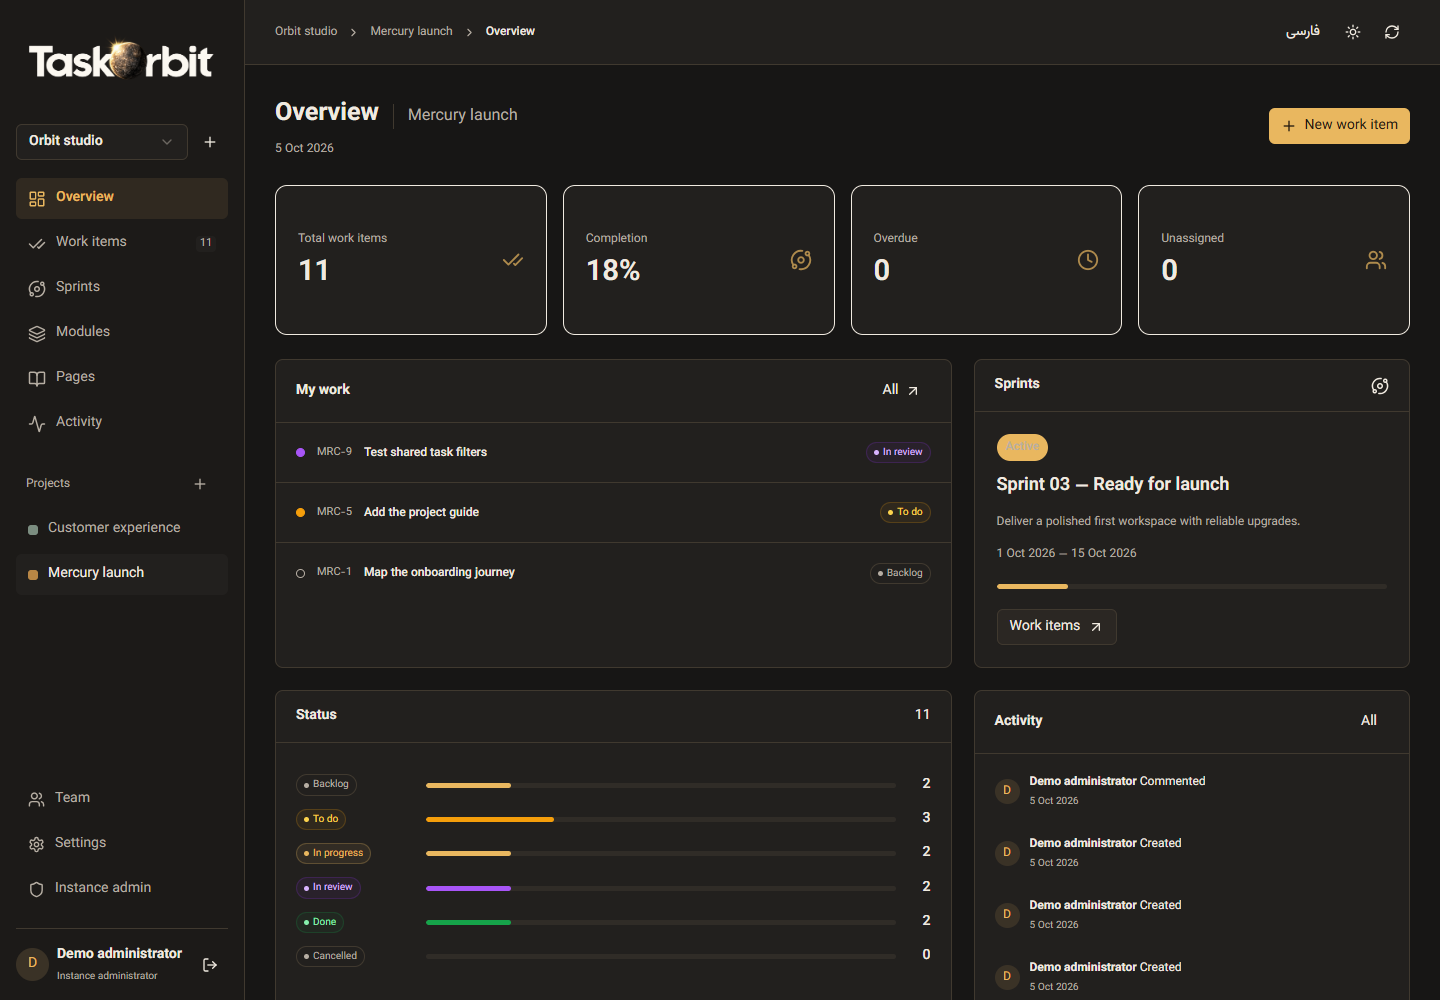
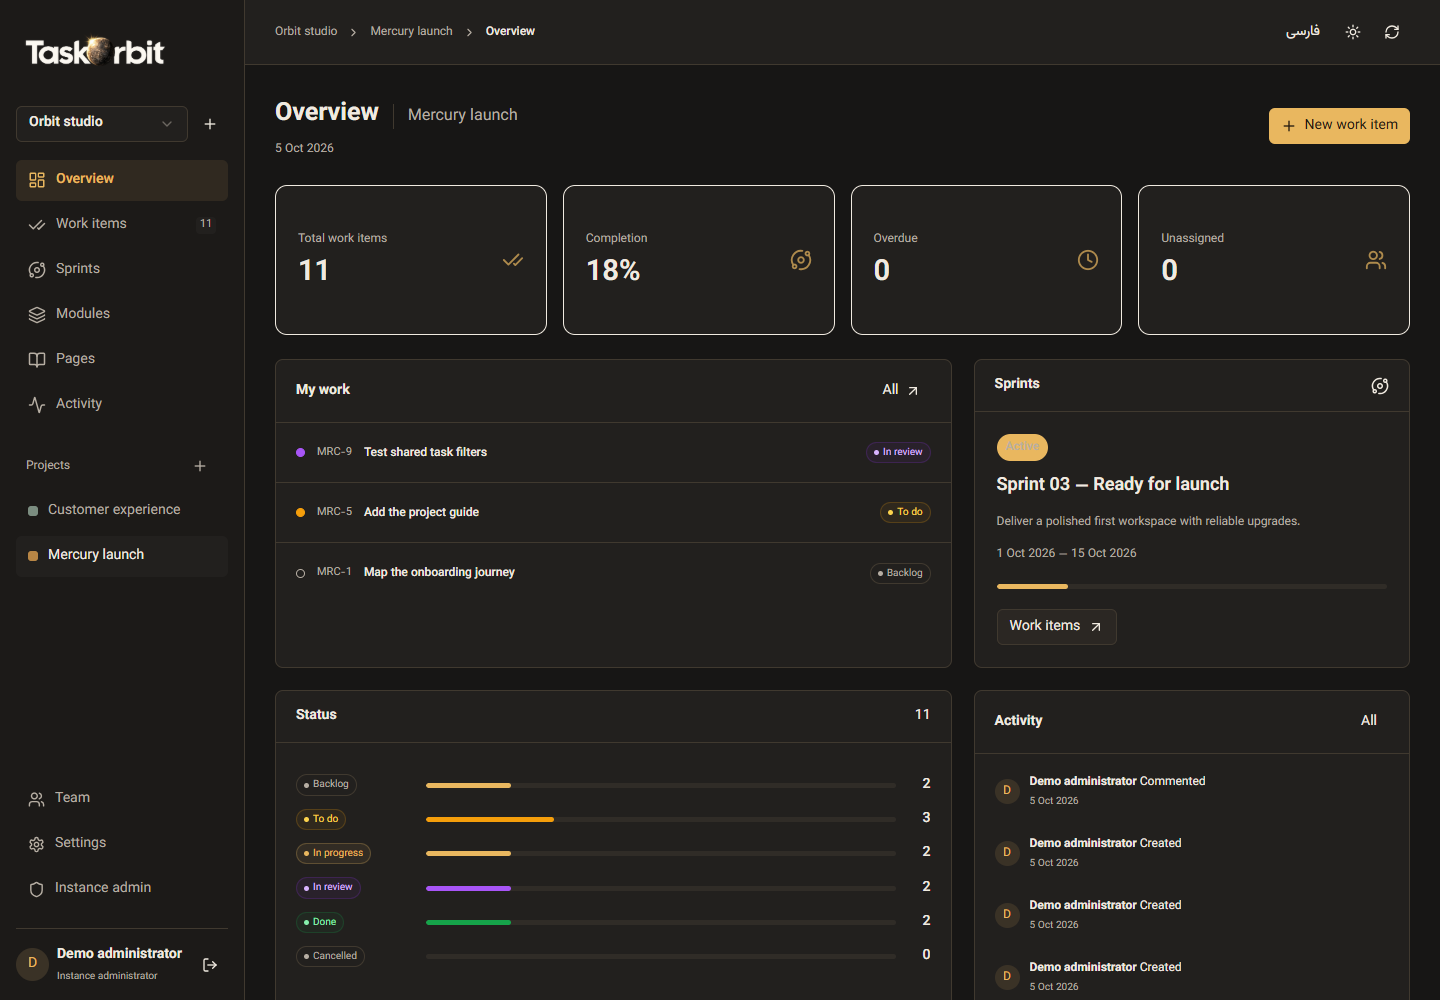
Make sidebar branding compact and prepare 0.1.6

Changed region(s): [[0.0, 0.031, 0.1562, 0.434], [0.0, 0.465, 0.125, 0.589]]

diff --git a/src/App.tsx b/src/App.tsx
@@ -1985,7 +1985,7 @@ export default function App() {
           )}
         </div>
         <footer className="app-footer">
-          <span>TaskOrbit 0.1.5</span>
+          <span>TaskOrbit 0.1.6</span>
           <a
             href="https://github.com/sajadjanat/taskorbit"
             target="_blank"

diff --git a/src/index.css b/src/index.css
@@ -123,6 +123,10 @@ input[type="color"] {
   border-radius: 6px;
   object-fit: contain;
 }
+.sidebar .brand img {
+  width: 160px;
+  max-width: 100%;
+}
 .brand .brand-dark {
   display: none;
 }

diff --git a/README.ar.md b/README.ar.md
@@ -11,7 +11,7 @@
   <p>إدارة مشاريع خفيفة وذاتية الاستضافة باستخدام React وshadcn/ui وTauri.</p>
   <p>
     <a href="https://github.com/sajadjanat/taskorbit/actions/workflows/verify.yml"><img src="https://github.com/sajadjanat/taskorbit/actions/workflows/verify.yml/badge.svg" alt="Web and server checks" /></a>
-    <a href="https://github.com/sajadjanat/taskorbit/releases"><img src="https://img.shields.io/badge/version-0.1.5-b88645" alt="Version 0.1.5" /></a>
+    <a href="https://github.com/sajadjanat/taskorbit/releases"><img src="https://img.shields.io/badge/version-0.1.6-b88645" alt="Version 0.1.6" /></a>
     <img src="https://img.shields.io/badge/Tauri-2-24c8db?logo=tauri&amp;logoColor=white" alt="Tauri 2" />
     <img src="https://img.shields.io/badge/UI-shadcn%2Fui-18181b?logo=shadcnui&amp;logoColor=white" alt="shadcn/ui" />
     <a href="LICENSE"><img src="https://img.shields.io/badge/license-MIT-b88645" alt="MIT license" /></a>
@@ -66,13 +66,13 @@
 
 ## التنزيل
 
-[**TaskOrbit 0.1.5 → GitHub Releases**](https://github.com/sajadjanat/taskorbit/releases/tag/v0.1.5)
+[**TaskOrbit 0.1.6 → GitHub Releases**](https://github.com/sajadjanat/taskorbit/releases/tag/v0.1.6)
 
 | المنصة | الحزمة أو الوصول | طريقة التحديث |
 | --- | --- | --- |
-| Windows x64 | TaskOrbit_0.1.5_x64-setup.exe | تحديث موقّع داخل التطبيق |
-| macOS Apple Silicon | TaskOrbit_0.1.5_aarch64.dmg | تحديث موقّع داخل التطبيق |
-| macOS Intel | TaskOrbit_0.1.5_x64.dmg | تحديث موقّع داخل التطبيق |
+| Windows x64 | TaskOrbit_0.1.6_x64-setup.exe | تحديث موقّع داخل التطبيق |
+| macOS Apple Silicon | TaskOrbit_0.1.6_aarch64.dmg | تحديث موقّع داخل التطبيق |
+| macOS Intel | TaskOrbit_0.1.6_x64.dmg | تحديث موقّع داخل التطبيق |
 | Linux x64 | DEB / AppImage | تحديث موقّع داخل التطبيق |
 | Android arm64 | taskorbit-android-arm64.apk | APK موقّع؛ التثبيت بموافقة المستخدم |
 | Web / iPhone / iPad | المتصفح / الإضافة إلى الشاشة الرئيسية | إعادة التحميل بعد تحديث الخادم |
@@ -104,7 +104,7 @@ docker compose up -d --build
 docker compose -f compose.image.yaml up -d
 ```
 
-الصورة `ghcr.io/sajadjanat/taskorbit:v0.1.5` متاحة لـ Linux amd64 وarm64. تحفظ الحسابات والمرفقات وSQLite في `taskorbit-data`. الأمر `docker compose down -v` يحذف وحدة التخزين والبيانات.
+الصورة `ghcr.io/sajadjanat/taskorbit:v0.1.6` متاحة لـ Linux amd64 وarm64. تحفظ الحسابات والمرفقات وSQLite في `taskorbit-data`. الأمر `docker compose down -v` يحذف وحدة التخزين والبيانات.
 
 ## خادم عام مع HTTPS: حاويتان
 
@@ -124,7 +124,7 @@ docker compose -f compose.yaml -f compose.https.yaml up -d --build
 
 ## التحديثات
 
-يمكن للمشرف العام التحقق من الإصدارات في لوحة الإدارة. لتفعيل تحديث الخادم بنقرة واحدة مع نسخة احتياطية واستعادة تلقائية عند الفشل، اسحب الصور ثم شغّل `docker compose -f compose.image.yaml -f compose.updates.yaml up -d`. تضاف حاوية تحديث: حاويتان إجمالاً أو ثلاث مع Caddy. يتضمن سطح المكتب منذ 0.1.3 تحديثات موقعة عبر شاشة الاتصال وقائمة **Updates / Server connection**. يتيح Android تنزيل APK الموقّع ويتطلب موافقة المستخدم للتثبيت. يقدم الويب وPWA على iPhone إعادة التحميل بعد تحديث الخادم. الإصدارات الأقدم تحتاج تثبيت 0.1.5 يدويًا مرة واحدة. راجع [دليل التحديث](docs/UPDATES.md).
+يمكن للمشرف العام التحقق من الإصدارات في لوحة الإدارة. لتفعيل تحديث الخادم بنقرة واحدة مع نسخة احتياطية واستعادة تلقائية عند الفشل، اسحب الصور ثم شغّل `docker compose -f compose.image.yaml -f compose.updates.yaml up -d`. تضاف حاوية تحديث: حاويتان إجمالاً أو ثلاث مع Caddy. يتضمن سطح المكتب منذ 0.1.3 تحديثات موقعة عبر شاشة الاتصال وقائمة **Updates / Server connection**. يتيح Android تنزيل APK الموقّع ويتطلب موافقة المستخدم للتثبيت. يقدم الويب وPWA على iPhone إعادة التحميل بعد تحديث الخادم. الإصدارات الأقدم تحتاج تثبيت 0.1.6 يدويًا مرة واحدة. راجع [دليل التحديث](docs/UPDATES.md).
 
 
 ## التثبيت على الأجهزة
@@ -172,7 +172,7 @@ npm run test:e2e
 
 ## الإصدار والنطاق
 
-يشغّل الوسم `v0.1.5` الاختبارات وبناء الحزم الأصلية والصورة متعددة المعماريات ومسودة إصدار. ينشر الإصدار بعد نجاح جميع المنصات. راجع [ملاحظات الإصدار](docs/RELEASE-NOTES.md) و[نتائج التحقق](docs/VERIFICATION.md) و[خارطة الطريق](docs/ROADMAP.md).
+يشغّل الوسم `v0.1.6` الاختبارات وبناء الحزم الأصلية والصورة متعددة المعماريات ومسودة إصدار. ينشر الإصدار بعد نجاح جميع المنصات. راجع [ملاحظات الإصدار](docs/RELEASE-NOTES.md) و[نتائج التحقق](docs/VERIFICATION.md) و[خارطة الطريق](docs/ROADMAP.md).
 
 التقنيات: React وTypeScript وVite وTailwind ومكونات shadcn/ui الفعلية وExpress وSQLite المدمجة في Node وTauri 2. الخط Vazirmatn بترخيص OFL. تعتمد الهوية على عطارد وإضاءة شمسية دافئة وألوان حجرية/فحمية وذهبية؛ [تفاصيل الهوية](assets/brand/WORDMARK.md).
 

diff --git a/README.zh-CN.md b/README.zh-CN.md
@@ -11,7 +11,7 @@
   <p>采用 React、shadcn/ui 和 Tauri 的轻量自托管项目管理应用。</p>
   <p>
     <a href="https://github.com/sajadjanat/taskorbit/actions/workflows/verify.yml"><img src="https://github.com/sajadjanat/taskorbit/actions/workflows/verify.yml/badge.svg" alt="Web and server checks" /></a>
-    <a href="https://github.com/sajadjanat/taskorbit/releases"><img src="https://img.shields.io/badge/version-0.1.5-b88645" alt="Version 0.1.5" /></a>
+    <a href="https://github.com/sajadjanat/taskorbit/releases"><img src="https://img.shields.io/badge/version-0.1.6-b88645" alt="Version 0.1.6" /></a>
     <img src="https://img.shields.io/badge/Tauri-2-24c8db?logo=tauri&amp;logoColor=white" alt="Tauri 2" />
     <img src="https://img.shields.io/badge/UI-shadcn%2Fui-18181b?logo=shadcnui&amp;logoColor=white" alt="shadcn/ui" />
     <a href="LICENSE"><img src="https://img.shields.io/badge/license-MIT-b88645" alt="MIT license" /></a>
@@ -66,13 +66,13 @@ README 提供四种语言；当前应用界面仅支持波斯语和英语。
 
 ## 下载
 
-[**TaskOrbit 0.1.5 → GitHub Releases**](https://github.com/sajadjanat/taskorbit/releases/tag/v0.1.5)
+[**TaskOrbit 0.1.6 → GitHub Releases**](https://github.com/sajadjanat/taskorbit/releases/tag/v0.1.6)
 
 | 平台 | 安装包或访问方式 | 更新方式 |
 | --- | --- | --- |
-| Windows x64 | TaskOrbit_0.1.5_x64-setup.exe | 应用内签名更新 |
-| macOS Apple Silicon | TaskOrbit_0.1.5_aarch64.dmg | 应用内签名更新 |
-| macOS Intel | TaskOrbit_0.1.5_x64.dmg | 应用内签名更新 |
+| Windows x64 | TaskOrbit_0.1.6_x64-setup.exe | 应用内签名更新 |
+| macOS Apple Silicon | TaskOrbit_0.1.6_aarch64.dmg | 应用内签名更新 |
+| macOS Intel | TaskOrbit_0.1.6_x64.dmg | 应用内签名更新 |
 | Linux x64 | DEB / AppImage | 应用内签名更新 |
 | Android arm64 | taskorbit-android-arm64.apk | 签名 APK；需用户批准安装 |
 | Web / iPhone / iPad | 浏览器 / 添加到主屏幕 | 服务器升级后重新加载 |
@@ -104,7 +104,7 @@ docker compose up -d --build
 docker compose -f compose.image.yaml up -d
 ```
 
-镜像 `ghcr.io/sajadjanat/taskorbit:v0.1.5` 支持 Linux amd64 和 arm64。SQLite、账户及附件保存在 `taskorbit-data` 卷中。`docker compose down -v` 会删除此卷及其数据。
+镜像 `ghcr.io/sajadjanat/taskorbit:v0.1.6` 支持 Linux amd64 和 arm64。SQLite、账户及附件保存在 `taskorbit-data` 卷中。`docker compose down -v` 会删除此卷及其数据。
 
 ## 公共 HTTPS 服务器：两个容器
 
@@ -124,7 +124,7 @@ docker compose -f compose.yaml -f compose.https.yaml up -d --build
 
 ## 更新
 
-实例管理员可在管理面板检查新版本。拉取镜像后运行 `docker compose -f compose.image.yaml -f compose.updates.yaml up -d`，即可启用带数据库备份和失败自动回滚的一键服务器升级。这会增加一个更新容器：共两个容器，使用 Caddy 时共三个。0.1.3 起桌面客户端在本地连接页提供签名更新，可通过 **Updates / Server connection** 菜单返回。Android 下载新的签名 APK，并需要用户批准安装。服务器升级后，网页和 iPhone PWA 提示重新加载。更早的客户端需先手动安装一次 0.1.5。参阅 [更新指南](docs/UPDATES.md)。
+实例管理员可在管理面板检查新版本。拉取镜像后运行 `docker compose -f compose.image.yaml -f compose.updates.yaml up -d`，即可启用带数据库备份和失败自动回滚的一键服务器升级。这会增加一个更新容器：共两个容器，使用 Caddy 时共三个。0.1.3 起桌面客户端在本地连接页提供签名更新，可通过 **Updates / Server connection** 菜单返回。Android 下载新的签名 APK，并需要用户批准安装。服务器升级后，网页和 iPhone PWA 提示重新加载。更早的客户端需先手动安装一次 0.1.6。参阅 [更新指南](docs/UPDATES.md)。
 
 
 ## 安装到设备
@@ -172,7 +172,7 @@ Compose 将资源限制为 512 MB 内存和一个 CPU；这些是上限，不是
 
 ## 发布与范围
 
-标签 `v0.1.5` 会触发验证、原生打包、多架构镜像及发布草稿。所有平台构建成功后才发布。参阅 [发布说明](docs/RELEASE-NOTES.md)、[验证记录](docs/VERIFICATION.md) 和 [路线图](docs/ROADMAP.md) 了解限制与后续工作。
+标签 `v0.1.6` 会触发验证、原生打包、多架构镜像及发布草稿。所有平台构建成功后才发布。参阅 [发布说明](docs/RELEASE-NOTES.md)、[验证记录](docs/VERIFICATION.md) 和 [路线图](docs/ROADMAP.md) 了解限制与后续工作。
 
 技术栈：React、TypeScript、Vite、Tailwind、真正的 shadcn/ui 源组件、Express、Node 内置 SQLite API 和 Tauri 2。Vazirmatn 字体采用 OFL 许可证。品牌采用受阳光照亮的水星、石色/炭色背景和金色强调；[品牌详情](assets/brand/WORDMARK.md)。
 

diff --git a/README.fa.md b/README.fa.md
@@ -11,7 +11,7 @@
   <p>مدیریت پروژهٔ سبک و سلفهاست با React، shadcn/ui و Tauri.</p>
   <p>
     <a href="https://github.com/sajadjanat/taskorbit/actions/workflows/verify.yml"><img src="https://github.com/sajadjanat/taskorbit/actions/workflows/verify.yml/badge.svg" alt="Web and server checks" /></a>
-    <a href="https://github.com/sajadjanat/taskorbit/releases"><img src="https://img.shields.io/badge/version-0.1.5-b88645" alt="Version 0.1.5" /></a>
+    <a href="https://github.com/sajadjanat/taskorbit/releases"><img src="https://img.shields.io/badge/version-0.1.6-b88645" alt="Version 0.1.6" /></a>
     <img src="https://img.shields.io/badge/Tauri-2-24c8db?logo=tauri&amp;logoColor=white" alt="Tauri 2" />
     <img src="https://img.shields.io/badge/UI-shadcn%2Fui-18181b?logo=shadcnui&amp;logoColor=white" alt="shadcn/ui" />
     <a href="LICENSE"><img src="https://img.shields.io/badge/license-MIT-b88645" alt="MIT license" /></a>
@@ -66,13 +66,13 @@
 
 ## دانلود
 
-[**TaskOrbit 0.1.5 → GitHub Releases**](https://github.com/sajadjanat/taskorbit/releases/tag/v0.1.5)
+[**TaskOrbit 0.1.6 → GitHub Releases**](https://github.com/sajadjanat/taskorbit/releases/tag/v0.1.6)
 
 | پلتفرم | بسته یا روش دسترسی | روش بهروزرسانی |
 | --- | --- | --- |
-| Windows x64 | TaskOrbit_0.1.5_x64-setup.exe | updater امضاشده داخل برنامه |
-| macOS Apple Silicon | TaskOrbit_0.1.5_aarch64.dmg | updater امضاشده داخل برنامه |
-| macOS Intel | TaskOrbit_0.1.5_x64.dmg | updater امضاشده داخل برنامه |
+| Windows x64 | TaskOrbit_0.1.6_x64-setup.exe | updater امضاشده داخل برنامه |
+| macOS Apple Silicon | TaskOrbit_0.1.6_aarch64.dmg | updater امضاشده داخل برنامه |
+| macOS Intel | TaskOrbit_0.1.6_x64.dmg | updater امضاشده داخل برنامه |
 | Linux x64 | DEB / AppImage | updater امضاشده داخل برنامه |
 | Android arm64 | taskorbit-android-arm64.apk | APK امضاشده؛ نصب با تأیید کاربر |
 | Web / iPhone / iPad | مرورگر / افزودن به صفحهٔ اصلی | بارگذاری مجدد پس از ارتقای سرور |
@@ -104,7 +104,7 @@ docker compose up -d --build
 docker compose -f compose.image.yaml up -d
 ```
 
-ایمیج `ghcr.io/sajadjanat/taskorbit:v0.1.5` برای Linux amd64/arm64 است. دادههای SQLite، حسابها و پیوستها در `taskorbit-data` میمانند. دستور `docker compose down -v` این حجم و دادهها را حذف میکند.
+ایمیج `ghcr.io/sajadjanat/taskorbit:v0.1.6` برای Linux amd64/arm64 است. دادههای SQLite، حسابها و پیوستها در `taskorbit-data` میمانند. دستور `docker compose down -v` این حجم و دادهها را حذف میکند.
 
 ## سرور عمومی با HTTPS؛ دو کانتینر
 
@@ -172,7 +172,7 @@ Compose سقف ۵۱۲ مگابایت حافظه و یک CPU دارد؛ این س
 
 ## انتشار و محدوده
 
-تگ `v0.1.5` آزمون، ساخت بستههای بومی، ایمیج چندمعماری و پیشنویس ریلیز را فعال میکند. انتشار بعد از موفقیت همهٔ پلتفرمها انجام میشود. [یادداشت ریلیز](docs/RELEASE-NOTES.md)، [شواهد آزمون](docs/VERIFICATION.md) و [نقشه راه](docs/ROADMAP.md) محدودیتها و قدمهای بعدی را توضیح میدهند.
+تگ `v0.1.6` آزمون، ساخت بستههای بومی، ایمیج چندمعماری و پیشنویس ریلیز را فعال میکند. انتشار بعد از موفقیت همهٔ پلتفرمها انجام میشود. [یادداشت ریلیز](docs/RELEASE-NOTES.md)، [شواهد آزمون](docs/VERIFICATION.md) و [نقشه راه](docs/ROADMAP.md) محدودیتها و قدمهای بعدی را توضیح میدهند.
 
 فناوریها: React، TypeScript، Vite، Tailwind، کامپوننتهای واقعی shadcn/ui، Express، SQLite داخلی Node و Tauri 2. فونت Vazirmatn با مجوز OFL است. نشان عطارد با نور گرم خورشید و زمینهٔ سنگی/زغالی در تمهای برنامه استفاده میشود؛ [جزئیات برند](assets/brand/WORDMARK.md).
 

diff --git a/README.md b/README.md
@@ -11,7 +11,7 @@
   <p>Lightweight self-hosted project management, built with React, shadcn/ui and Tauri.</p>
   <p>
     <a href="https://github.com/sajadjanat/taskorbit/actions/workflows/verify.yml"><img src="https://github.com/sajadjanat/taskorbit/actions/workflows/verify.yml/badge.svg" alt="Web and server checks" /></a>
-    <a href="https://github.com/sajadjanat/taskorbit/releases"><img src="https://img.shields.io/badge/version-0.1.5-b88645" alt="Version 0.1.5" /></a>
+    <a href="https://github.com/sajadjanat/taskorbit/releases"><img src="https://img.shields.io/badge/version-0.1.6-b88645" alt="Version 0.1.6" /></a>
     <img src="https://img.shields.io/badge/Tauri-2-24c8db?logo=tauri&amp;logoColor=white" alt="Tauri 2" />
     <img src="https://img.shields.io/badge/UI-shadcn%2Fui-18181b?logo=shadcnui&amp;logoColor=white" alt="shadcn/ui" />
     <a href="LICENSE"><img src="https://img.shields.io/badge/license-MIT-b88645" alt="MIT license" /></a>
@@ -66,13 +66,13 @@ README translations are available in four languages; the application interface c
 
 ## Download
 
-[**TaskOrbit 0.1.5 → GitHub Releases**](https://github.com/sajadjanat/taskorbit/releases/tag/v0.1.5)
+[**TaskOrbit 0.1.6 → GitHub Releases**](https://github.com/sajadjanat/taskorbit/releases/tag/v0.1.6)
 
 | Platform | Package / access | Update method |
 | --- | --- | --- |
-| Windows x64 | TaskOrbit_0.1.5_x64-setup.exe | Signed in-app updater |
-| macOS Apple Silicon | TaskOrbit_0.1.5_aarch64.dmg | Signed in-app updater |
-| macOS Intel | TaskOrbit_0.1.5_x64.dmg | Signed in-app updater |
+| Windows x64 | TaskOrbit_0.1.6_x64-setup.exe | Signed in-app updater |
+| macOS Apple Silicon | TaskOrbit_0.1.6_aarch64.dmg | Signed in-app updater |
+| macOS Intel | TaskOrbit_0.1.6_x64.dmg | Signed in-app updater |
 | Linux x64 | DEB / AppImage | Signed in-app updater |
 | Android arm64 | taskorbit-android-arm64.apk | Signed APK; user-approved installation |
 | Web / iPhone / iPad | Browser / Add to Home Screen | Reload after server upgrade |
@@ -104,7 +104,7 @@ To use the published multi-architecture image instead of building from source:
 docker compose -f compose.image.yaml up -d
 ```
 
-The public image is `ghcr.io/sajadjanat/taskorbit:v0.1.5` for Linux amd64 and arm64. For HTTPS with this image, combine `compose.image.yaml` with `compose.https.yaml` and set the same `TASKORBIT_DOMAIN` described below.
+The public image is `ghcr.io/sajadjanat/taskorbit:v0.1.6` for Linux amd64 and arm64. For HTTPS with this image, combine `compose.image.yaml` with `compose.https.yaml` and set the same `TASKORBIT_DOMAIN` described below.
 
 SQLite, attachments and account data persist in `taskorbit-data`. Do not use `docker compose down -v` unless you intend to delete them.
 
@@ -174,7 +174,7 @@ The Compose resource settings cap the application at 512 MB and one CPU; these a
 
 ## Release and scope
 
-Tag `v0.1.5` triggers verification, native packaging, a multi-architecture server image and a draft release. Publication occurs only after all platform jobs succeed. See [release notes](docs/RELEASE-NOTES.md) and [roadmap](docs/ROADMAP.md) for implemented and remaining features.
+Tag `v0.1.6` triggers verification, native packaging, a multi-architecture server image and a draft release. Publication occurs only after all platform jobs succeed. See [release notes](docs/RELEASE-NOTES.md) and [roadmap](docs/ROADMAP.md) for implemented and remaining features.
 
 Stack: React, TypeScript, Vite, Tailwind, genuine shadcn/ui source components, Express, Node's SQLite API and Tauri 2. Font: Vazirmatn (OFL). The Mercury wordmark and app icon use warm solar lighting, with stone/charcoal surfaces and gold accents throughout both UI themes. Brand artwork was generated from the owner's GitOrbit reference; see [brand details](assets/brand/WORDMARK.md).
 

diff --git a/docs/RELEASE-NOTES.md b/docs/RELEASE-NOTES.md
@@ -1,5 +1,6 @@
-# TaskOrbit 0.1.5 — transparent Mercury identity
+# TaskOrbit 0.1.6 — transparent Mercury identity
 
+- Smaller sidebar wordmark, with a compact 160 px footprint.
 - Transparent Mercury wordmarks switch lettering for light and dark themes, without a black background.
 - README presentation includes centered branding, badges, feature/download tables and actual application previews in four documentation languages.
 - Instance administrator can check official releases and perform a one-click server upgrade with the optional updater container.
@@ -12,7 +13,7 @@
 
 ## Downloads
 
-Windows x64 installer; macOS Intel and Apple Silicon DMGs; Linux x64 DEB/AppImage; Android arm64 APK; web/server archive. Desktop updater packages and signatures, latest.json and SHA256SUMS accompany them. Server image: ghcr.io/sajadjanat/taskorbit:v0.1.5 and :stable, Linux amd64/arm64. See [update guide](https://github.com/sajadjanat/taskorbit/blob/main/docs/UPDATES.md).
+Windows x64 installer; macOS Intel and Apple Silicon DMGs; Linux x64 DEB/AppImage; Android arm64 APK; web/server archive. Desktop updater packages and signatures, latest.json and SHA256SUMS accompany them. Server image: ghcr.io/sajadjanat/taskorbit:v0.1.6 and :stable, Linux amd64/arm64. See [update guide](https://github.com/sajadjanat/taskorbit/blob/main/docs/UPDATES.md).
 
 ## Preview limitations
 
